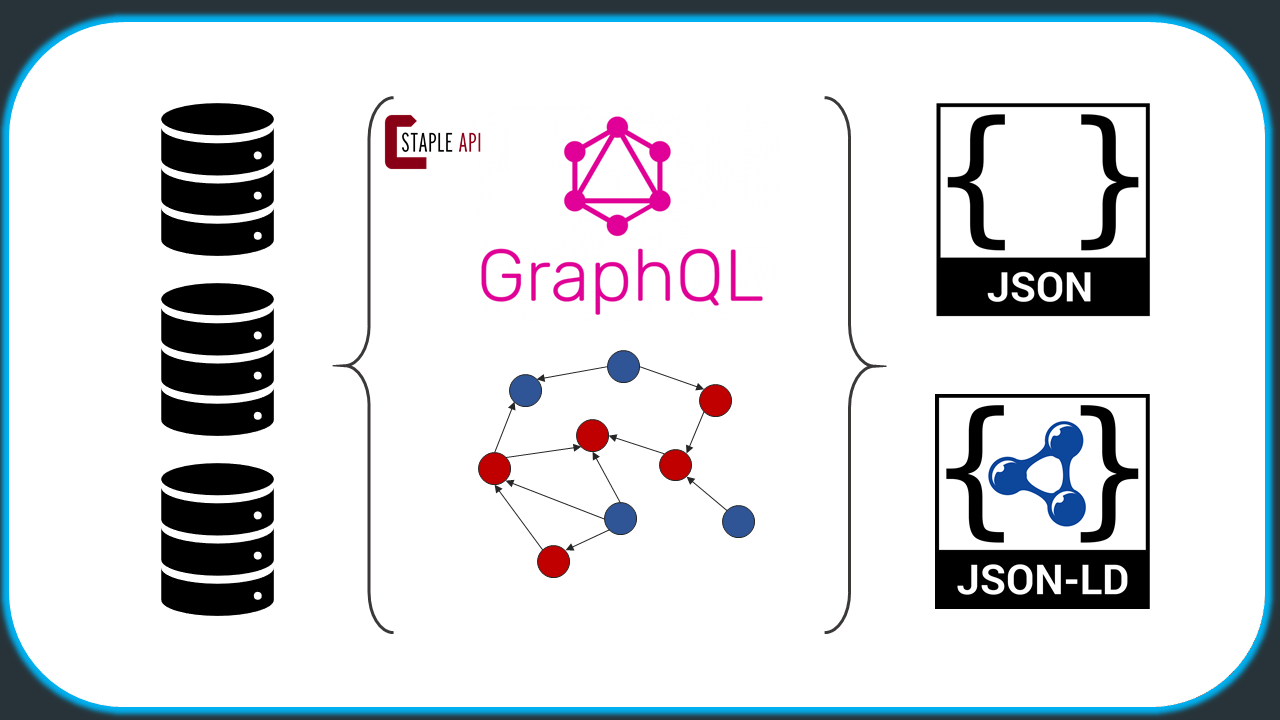
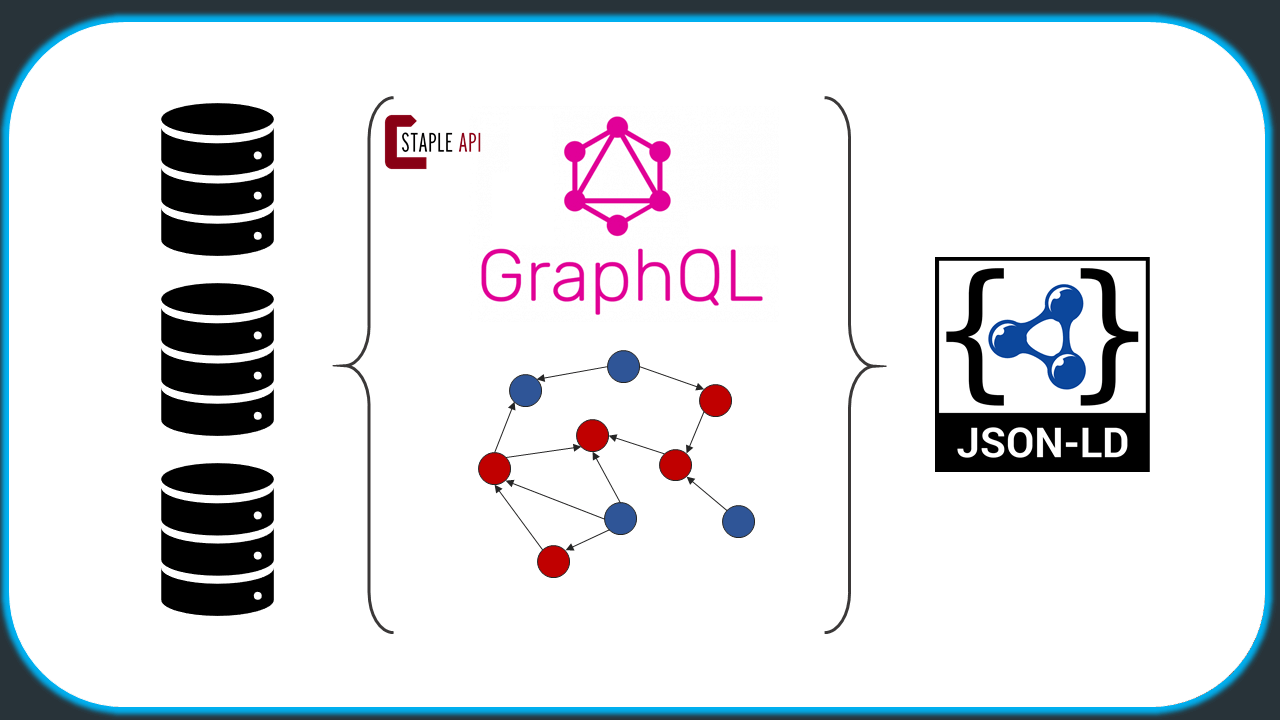
figures and intro revised

Changed region(s): [[0.7188, 0.1222, 0.9062, 0.8556]]

diff --git a/home/README.md b/home/README.md
@@ -1,20 +1,20 @@
 ## What is it?
 
-**Staple API** is a lightweight GraphQL-based API for an easy management of **knowledge graphs**, modeled and virtualized as linked data and structured by an RDF ontology. 
+**Staple API** is a lightweight GraphQL-based API for an easy management of **knowledge graphs** across different back-ends and virtualized as linked data via JSON-LD.
+
+
+## What is for?
 
 A **knowledge graph** is an abstraction of data that views it as a collection of entities (represented as _graph nodes_) connected with relationships (represented as _graph edges_) whose meaning and structure is described via a consistent set of semantic rules and constraints. 
 
-
-## What is it good for?
-
-Modern knowledge graph-based applications very often need to replicate their data across different databases in order to support diverse functionalities, e.g.: 
+Modern knowledge graph-based applications often need to manage their data across different back-ends in order to support diverse functionalities, e.g.: 
 1. a document store for simple management of all data objects
 2. a graph database for analytical insights into complex relationships between them
 3. a search engine for efficient search and retrieval purposes
 
-While data in such architectures constitutes pieces of the same knowledge graph it is difficult to manage it as such, leading to increasing problems with its uniform structuring and synchronisation across the storages. 
+While data in such architectures constitutes pieces of the same knowledge graph it is difficult to manage it as such. This leads to increasing problems with its uniform structuring, querying and synchronisation across the storages. 
 
-**Staple API** is a flexible **data abstraction middleware**, which separates data storage back-ends from your application to allow uniform view and access to data **as consistent fragments of the same knowledge graph** via a standard GraphQL interface, irrespective of the actual storage type. 
+**Staple API** is a flexible **data abstraction middleware**, which allows for decoupling data storage back-ends from your application to facilitate uniform view and access to data **as consistent fragments of the same knowledge graph** via a standard GraphQL interface and described in a single ontology. 
 
 <br>
 
